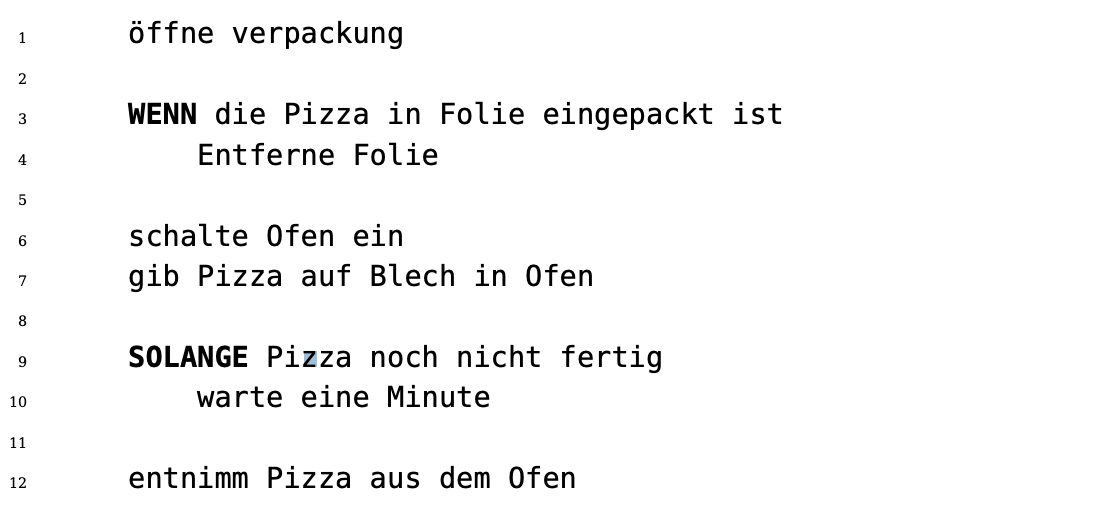
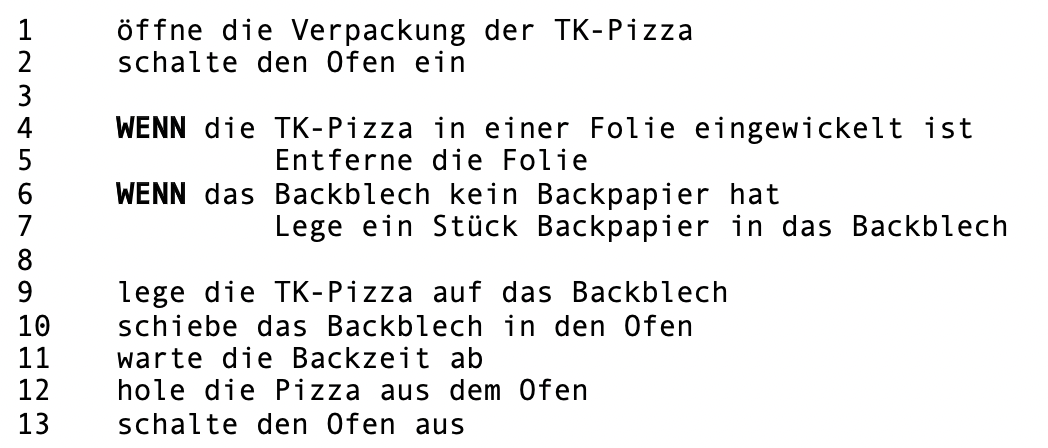
Anpassungen U1

diff --git a/src/pages/uebung1.tsx b/src/pages/uebung1.tsx
@@ -195,8 +195,8 @@ export default function Home() {
             nennen! Ich meine hier nicht codieren. Codieren ist lediglich die
             Umsetzung der Beschreibung in einer Programmmiersprache wie C++, bei
             der eine Entwicklungsumgebung zum Eingeben und Testen des Codes
-            benötigt wird. Das schauen wir uns im nächsten Kapitel auch noch an,
-            aber alles zu seiner Zeit!
+            benötigt wird. Das schauen wir uns in der nächsten Lektion auch noch
+            an, aber alles zu seiner Zeit!
           </Typography>
           <Typography level="h4" sx={{ marginTop: "30px" }}>
             Entwurfstechnik
@@ -225,7 +225,7 @@ export default function Home() {
             </Typography>
           </div>
           {/*Struktogramm*/}
-          <Typography level="h5" sx={{ marginTop: "20px" }}>
+          <Typography level="h5" sx={{ marginTop: "30px" }}>
             Struktogramm (Nassi-Shneidermann Diagramm)
           </Typography>
           <div id="algo.1.3.2"></div>
@@ -283,68 +283,71 @@ export default function Home() {
                 </span>
               }
             ></Accordion>
-            <Typography level="body1">
-              Wir schauen uns nun gemeinsam ein Pseudocode Beispiel an.
-              Sicherlich kannst du all diese Schritte folgen, da du es selber
-              schonmal gemacht hast. Ich spreche natürlich vom "TK-Pizza
-              backen". Alle Schritte, die man beim backen einer TK-Pizza macht
-              werden nun in ein Pseudocode geschrieben.
+            <Typography level="h5" sx={{ marginTop: "20px" }}>
+              Pseudocode - TK Pizza backen
             </Typography>
             <Typography level="body1">
-              In diesem Fall haben wir einen Pseudocode für eine Person mit
-              einem Backofen und einer Pizza erstellt. Diesen Pseudocode könnte
-              ein Computer nicht ausführen. Es gibt uns (den Pizzabäcker) klare,
-              eindeutige, sturkturierte und druchführbare Anweisungen. Diser
-              Algorithmus hat verschiedene Sequenzen, die immer nacheinander
-              abgearbeitet werden. Es gibt verschiedene Kontrollstrukturen, die
-              man beim schreiben eines Algorithmus verwendet.
+              Wir schauen uns nun gemeinsam ein Pseudocode Beispiel an. Dieses
+              Anwendungsbeispiel hast du definitv schonmal selber gemacht! Es
+              handelt sich natürlich um das Backen einer Tiefkühl-Pizza
+              (TK-Pizza). Das ist ein sehr schönes Beispiel um dir zu zeigen,
+              wie man einen Algorithmus als Pseudocode schreibt. Alle Schritte,
+              die man beim backen einer TK-Pizza macht werden nun als Pseudocode
+              Algorithmus geschrieben.
+            </Typography>
+            <div className={styles.bildeinruecken2}>
+              <img src={"/pizza1.png"} alt="pizza1" height={120} />
+            </div>
+            <Typography level="body1" sx={{ marginTop: "20px" }}>
+              Wie du siehst sieht dieser Pseudocode so aus wie eine Anleitung
+              für eine Person(Bäcker*in), die einen Backofen hat und eine
+              TK-Pizza backen möchte. Diesen Pseudocode könnte ein Computer
+              nicht ausführen. Es gibt den Pizzabäcker eine klare, eindeutige,
+              sturkturierte und druchführbare Anweisungen. Diser Algorithmus hat
+              verschiedene Sequenzen, die immer nacheinander abgearbeitet
+              werden. In diesem Pseudocode haben wir aber noch keine
+              Kontrollstrukturen verwendet. Diese sind aber essentiell, für das
+              schreiben eines guten Algorithmus.
             </Typography>
             {/*Kontrollstrukturen */}
-            <Typography level="h4" sx={{ marginTop: "30px" }}>
-              Kontrollstrukturen
+            <Typography level="h5" sx={{ marginTop: "30px" }}>
+              Pseudocode - Kontrollstrukturen
             </Typography>
             <div id="algo.1.4"></div>
             <Typography level="body1">
-              Du hast im C++ Einführungskurs bereits über Kontrollstrukutren
-              gelernt. Wir versuchen sie nun nochmal im Zusammenhang mit dem
-              Begriff 'Pseudocode' zu betrachten. Falls du noch Schwierigkeiten
-              hast Kontrollstrukturen zu verstehen, kehre einfach zum
-              Einfürungskurs zurück und schau außerdem in dein GdP Skript.
+              Du hast im C++ Einführungskurs bereits einiges über
+              Kontrollstrukturen gelernt. Wir versuchen sie nun nochmal im
+              Zusammenhang mit dem Begriff 'Pseudocode' zu betrachten. Falls du
+              noch Schwierigkeiten hast, Kontrollstrukturen zu verstehen, kehre
+              einfach zum Einfürungskurs zurück und schau außerdem in dein GdP
+              Skript nach.
             </Typography>
             {/*Fallunterscheidung*/}
             <Typography level="h5" sx={{ marginTop: "10px" }}>
-              Fallunterscheidung
+              Pseudocode - Fallunterscheidung
             </Typography>
             <div id="algo.1.4.1"></div>
             <Typography level="body1">
               Die Fallunterscheidung (Bedingte Verzweigung) sagt einem, dass
               anhand einer Bedingung/Fall entschieden wird, ob eine bestimmte
-              Anweisung durchgeführt wird oder nicht.
+              Anweisung durchgeführt wird oder nicht. In der Programmiersprache
+              C++ sind "if" und "else" notwendigen Schlüsselwörter dafür. Wir
+              erweitern das TK-Pizza Beispiel und schauen uns an, wie man eine
+              Fallunterscheidung in Pseudocode schreibt.
             </Typography>
             <div className={styles.bildeinruecken2}>
-              <img src={"/pizza.png"} alt="pizza" height={200} />
+              <img src={"/pizza2.png"} alt="pizza" height={210} />
             </div>
-            <Typography
-              level="body5"
-              sx={{
-                display: "flex",
-                justifyContent: "center",
-                marginBottom: "20px",
-              }}
-            >
-              Listing 1:Pizza backen-"Studienvorkurs Informatik" Prof. Dr.
-              Michael Brinkmeier, Dr. Nils Haldenwang, Universtität Osnabrück
-            </Typography>
-            <Typography level="body1" sx={{ marginTop: "5px" }}>
-              Am Beispiel des Pizzabäckers, müsste man also die Folie der Pizza
-              entfernen, nur WENN diese in einer Folie eingewickelt ist.{" "}
-              <br></br>
-              In der Programmiersprache C++ sind "if" und "else" notwendigen
-              Schlüsselwörter dafür.
+            <Typography level="body1" sx={{ marginTop: "10px" }}>
+              Hier sieht man schön, dass WENN die Bedingung eintrifft, dass die
+              Pizza in einer Plastikfolie eingewicklet ist, muss man diese
+              zuerst entfernen, bevor man weitermachen kann. Genauso wird
+              geschaut, ob das Backblech bereits mit Backpapier ausgelegt wurde
+              und WENN nicht, wird dies zuerst gemacht.
             </Typography>
             {/*Schleife*/}
             <Typography level="h5" sx={{ marginTop: "10px" }}>
-              Schleife
+              Pseudocode - Schleife
             </Typography>
             <div id="algo.1.4.2"></div>
             <Typography level="body1">
@@ -354,28 +357,23 @@ export default function Home() {
               angibt, wie oft oder bei welcher Bedingung die Schleife ausgeführt
               werden soll. Wenn man Programme mit Schleifen schreibt oder
               untersucht, so definiert man sich Schleifeninvarianten. Das sind
-              Bedingungen, die nach jeder Ausführung der Schleife gelten.{" "}
+              Bedingungen, die nach jeder Ausführung der Schleife gelten.
               <br></br>
-              Gehen wir mal davon aus, dass der Pizzabäcker die genaue Backzeit
-              der Pizza nicht weiß, da er die Verpackung weggeworfen hat.{" "}
+              Gehen wir mal davon aus, dass die Person (Bäcker/in) die genaue Backzeit
+              der Pizza nicht mehr weiß, da sie die Verpackung weggeworfen hat.<br></br>(ist uns natürlich noch nie passiert :D)
               <br></br>
               Hier müsste man SOLANGE die Pizza nochnicht fertig gebacken ist,
-              immer wieder eine Minute warten.
+              immer wieder eine Minute warten und schauen ob sie nach der Minute fertig ist. Wir wollen doch immerhin eine lecker, knusprig, goldbraun gebackene Pizza essen.
             </Typography>
             <div className={styles.bildeinruecken2}>
-              <img src={"/pizza2.png"} alt="pizza2" height={200} />
+              <img src={"/pizza3.png"} alt="pizza3" height={230} />
             </div>
-            <Typography
-              level="body5"
-              sx={{
-                display: "flex",
-                justifyContent: "center",
-                marginBottom: "20px",
-              }}
-            >
-              Listing 2:Pizza backen-"Studienvorkurs Informatik" Prof. Dr.
-              Michael Brinkmeier, Dr. Nils Haldenwang, Universtität Osnabrück
+            <Typography level="body1" sx={{ marginTop: "20px" }}>
+              Super, du hast nun gelernt, wie man einen Pseudocode schreibt.  Nun bist du bestens vorbereitet einen eigenen Pseudocode zu schreiben.
             </Typography>
+            <div className={styles.bildeinruecken2}>
+              <img src={"/undraw_pizza.svg"} alt="pizzaSVG" height={200} />
+            </div>
           </div>
           <Typography
             level="h4"
@@ -384,13 +382,13 @@ export default function Home() {
                 done={progress["id_algo_1_1"] ? 100 : 0}
               ></ProgressCheck>
             }
-            sx={{ marginTop: "20px" }}
+            sx={{ marginTop: "30px" }}
           >
             Pebble-Simulator
           </Typography>
           <div id="algo.1.5"></div>
           <Typography level="body1" sx={{ marginBottom: "20px" }}>
-            So das war jetzt aber auch sehr viel Input. Spiel doch gerne zur
+            Das war jetzt aber auch sehr viel Input! Spiel doch zur
             Belohnung eine kleine Runde Pebble-Simulator. Schlüpfe in meine
             Rolle als Pebble die Schildkröte und beweg dich aus dem Labyrinth
             indem du von dem roten Feld auf das grüne Feld gelangst.
@@ -428,8 +426,15 @@ export default function Home() {
             <br></br>
           </Typography>
           <Typography level="body1" color="success">
-            Schreibe einen Pseudocode, der Pebble die Schildkröte hilft aus dem
-            Labyrinth zu gelangen.
+            Schreibe einen Pseudocode, der mir (Pebble die Schildkröte) hilft
+            aus dem Labyrinth zu gelangen.
+          </Typography>
+          <Typography sx={{ marginTop: "10px" }} level="body1">
+            Denk dran, ich bin nur eine Schildkröte daher kann ich nur folgendes
+            machen:<br></br>• nach vorne gehen<br></br>• nach links/rechts
+            drehen<br></br>• schauen ob ich im Ziel ist <br></br>• schauen ob
+            vor mir eine Wand ist <br></br>• schauen ob links/rechts von mir
+            eine Wand ist <br></br>
           </Typography>
           <Typography sx={{ marginTop: "10px" }} level="body1">
             Teste deinen Pseudocode/Algorithmus gerne mit dem Spiel
